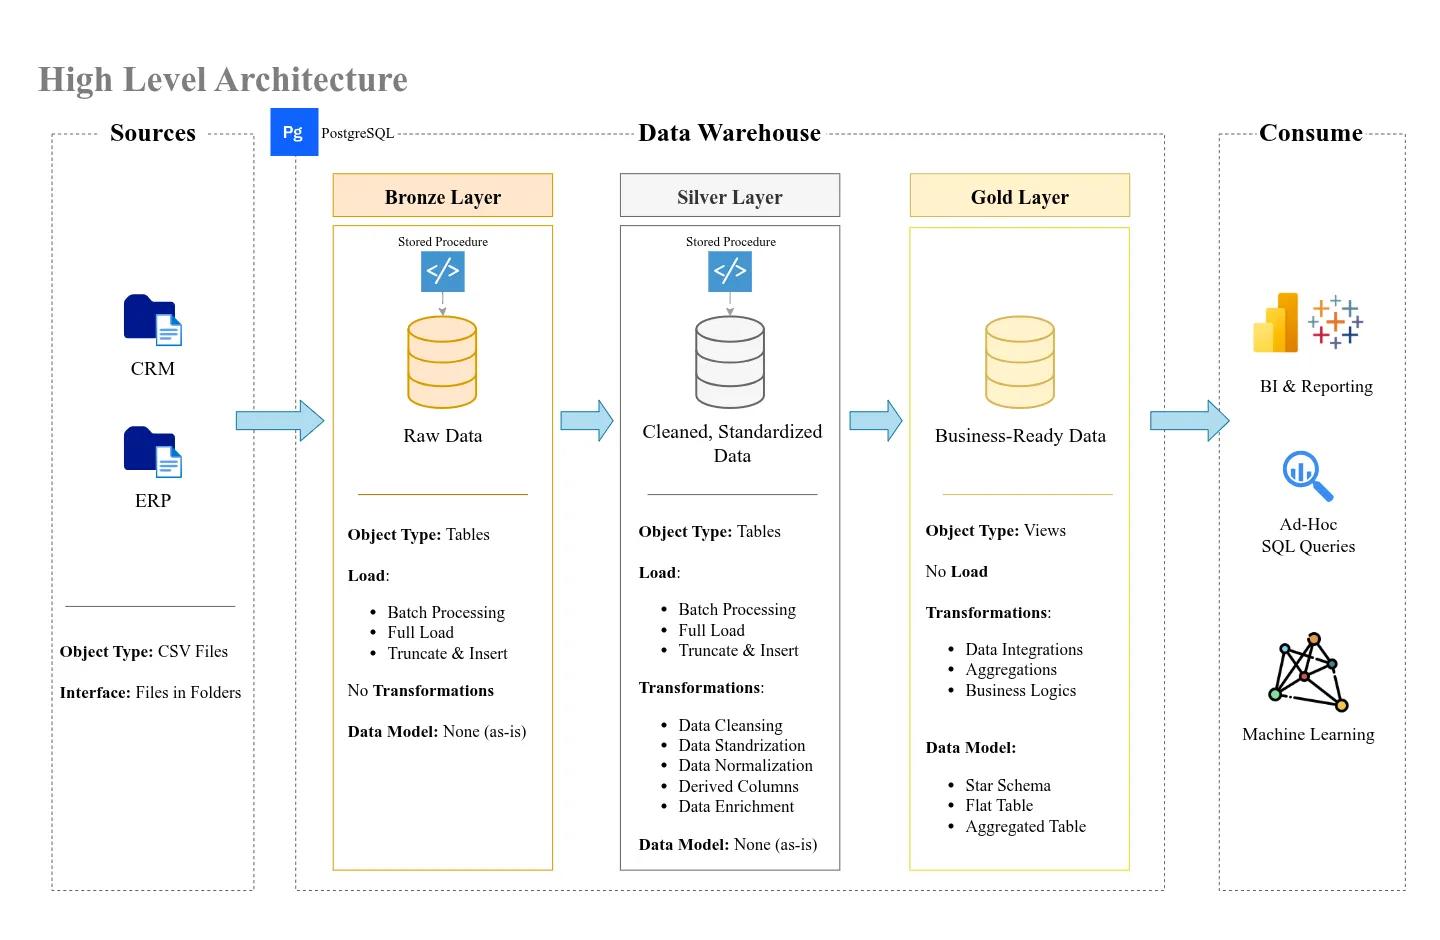
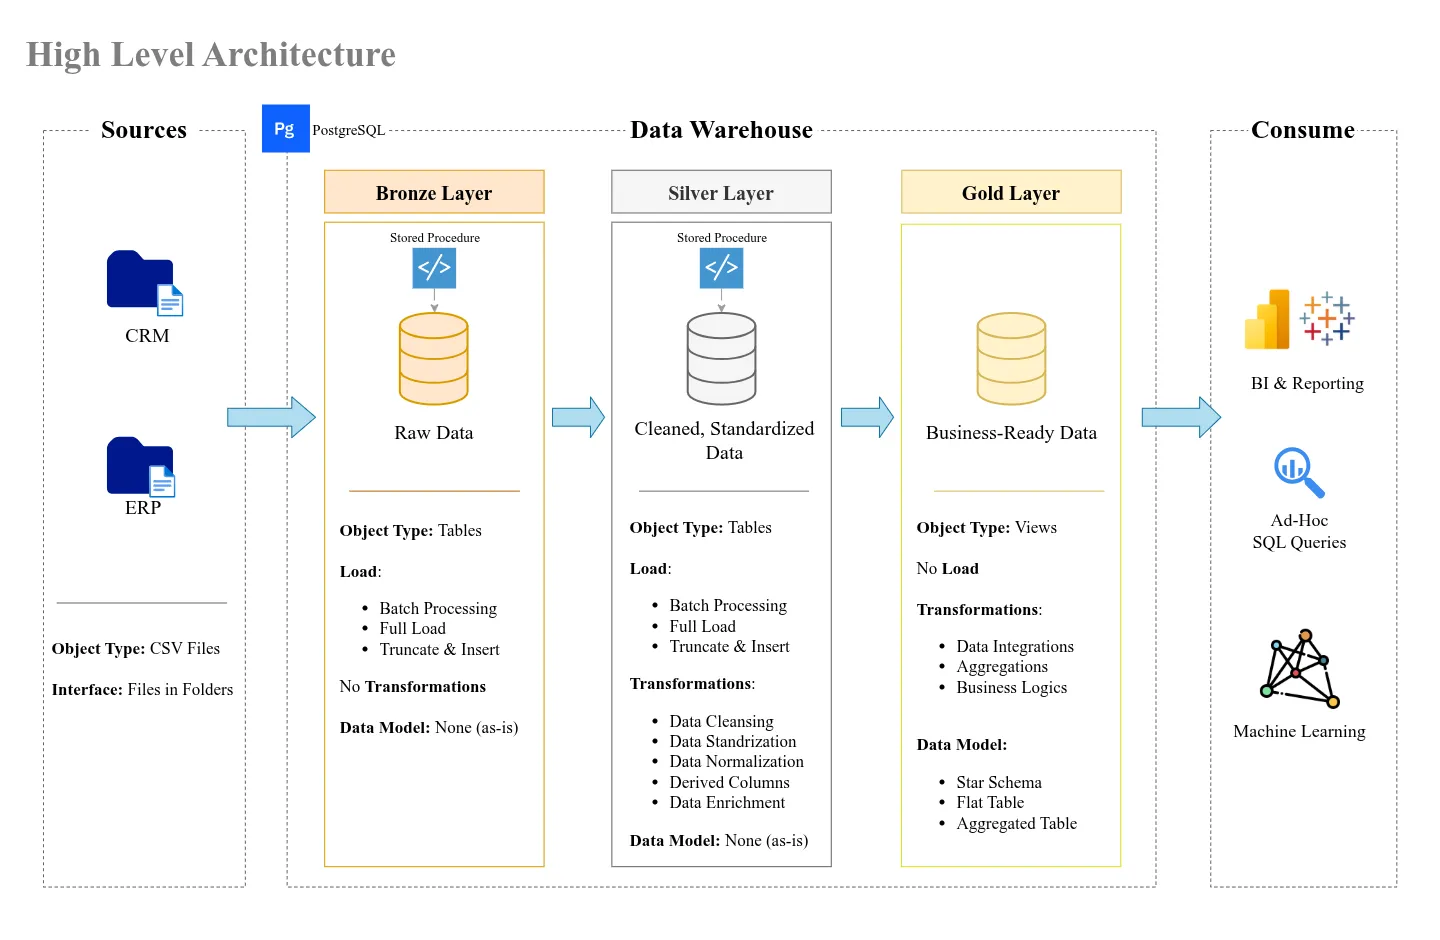
docs: Update README.md: add data flow diagram and update architecture diagram

diff --git a/README.md b/README.md
@@ -13,7 +13,7 @@ The original course examples use MySQL — here, I re-implement them in PostgreS
 - Practice **SQL (DDL, DML, DCL, TCL)** in a warehouse environment  
 - Gain experience with **schema design and data modeling**  
 - Explore **ETL workflows** for loading and transforming data  
-- Learn **dimensional modeling** concepts (Medallion schema)  
+- Learn **dimensional modeling** concepts
 - Apply basic **analytics & reporting** queries  
 - Document progress as a learning and portfolio project  
 </details>
@@ -28,6 +28,13 @@ title="High Level Architecture"
 />
 </details>
 
+<details><summary><h2>Data Flow 📽</h2></summary>
+<img 
+src="docs/data_flow.webp" 
+alt="Project Data Flow"
+title="High Level Architecture"
+/>
+</details>
 
 <details open><summary><h2>Repository Structure 📂</h2></summary>
 
@@ -36,10 +43,13 @@ title="High Level Architecture"
 - `scripts` - SQL, Python, and Bash scripts for ETL and transformations
 - `tests` - Validation scripts and data quality checks
 
+</details>
 <details open><summary><h2>Tech Stack 🛠</h2></summary>
 
 - **PostgreSQL**  
 - Bash / Python (for ETL & automation)  
+
+</details>
 
 
 <details open><summary><h2>Status 📈</h2></summary>
@@ -47,6 +57,7 @@ title="High Level Architecture"
 Work in progress 🚧 — updated as I progress through the bootcamp.  
 This is not a production-ready warehouse, but a **learning project** to practice data engineering fundamentals.   
 - [x] Add script for database initialization
+- [x] Implement bronze level
 
 </details>
 
